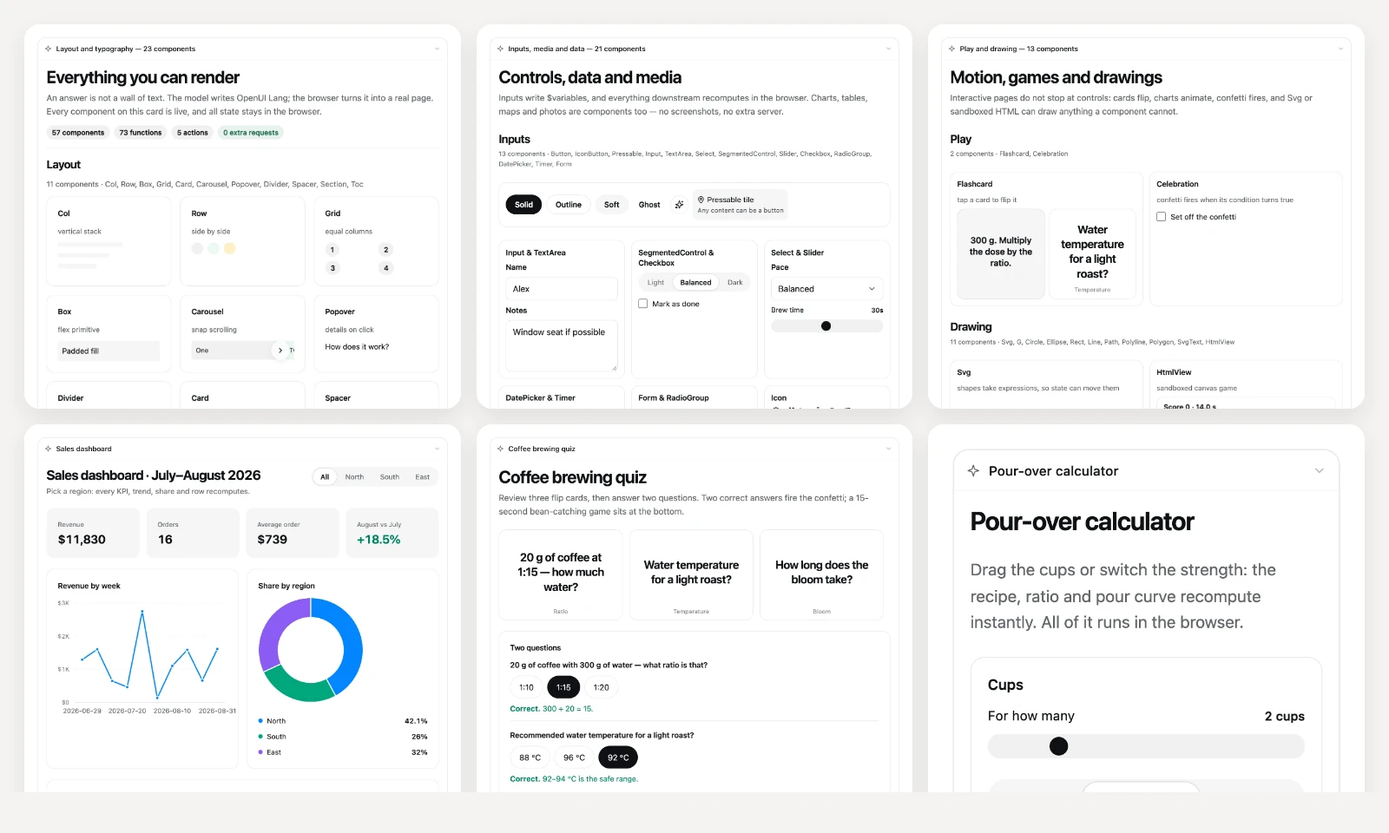
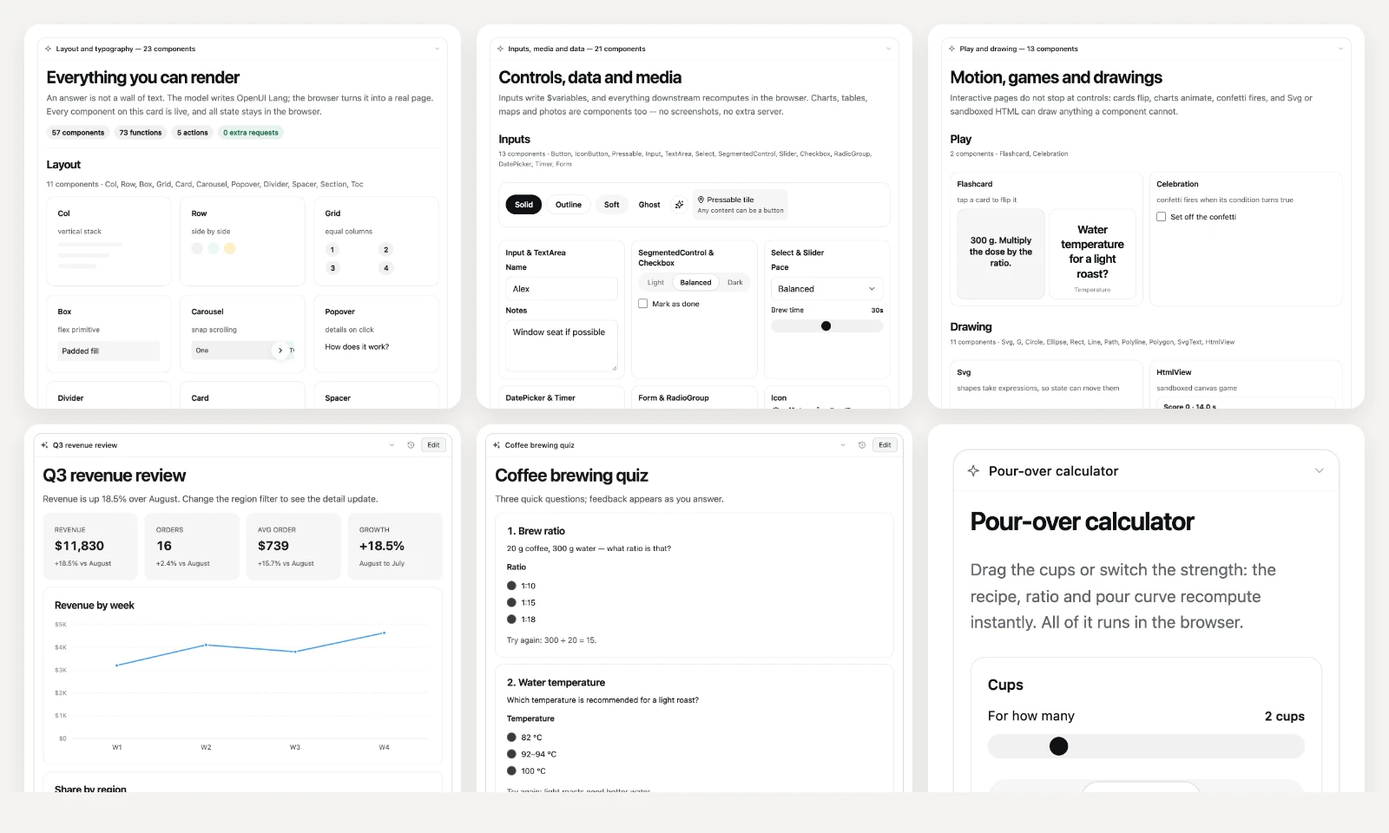
docs: use the current dashboard and quiz cards in the components bento
Swap the components Bento's two example cells from the 0.1.0 example captures to the current dashboard-en / quiz-en fixture cards (card header with Edit, current styling), rebuild the composite, and refresh the derived pack sizes in the docs/verification/reference records (65 files, 6,118,669 / 13,140,084). The README and the marketplace screenshots.json reference the same composite filename, so both pick up the new image.

diff --git a/docs/architecture.en.md b/docs/architecture.en.md
@@ -467,7 +467,7 @@ The skill files also ship with the package as an ordinary directory (`skills/`),
 - **Deep pages**: `MAX_CST_DEPTH` moved from 4 to **10** (the root `Col` is depth 0; the real dashboard page is depth 5–6 with 83 CST nodes) and the client nested map plus the Host structure route share that constant, so root-level delete/duplicate/move on big pages now preview and apply. The nested editing UI still offers children up to display depth 4. When `nestedBlocksForProgram` cannot map the page, `resolvePendingStructureOperations` falls back to a Host-shaped root-level block table (same node ids/digests), so root operations still resolve. A page beyond the supported depth reports a `depth` conflict (a nested move on it reports `nestedTarget`); a shallow page over the 200-node budget reports its own `nodeLimit` conflict instead of pretending it is too deep. Neither case shows the misleading "no longer in this revision".
 - **Known limits**: auto-send needs a plain composer — busy/sending states fall back to the manual notice, and a `submitted` notice is written only after the send path really consumed the draft (an unverifiable send downgrades to manual instead of faking success); after `submit()` the existing `reconcileArtifactSubmissions` confirms the draft when the Turn closes (Host conflicts still use the existing banner); a normal Send is refused with `pending_apply` while the structure queue is unapplied (no `markSubmitted`, no draft loss); Apply preserves the draft's attached state (a detached draft gets no re-inserted chip and is never auto-sent) and checks the attached batch count before inserting a chip; a nested-mode Apply rebuilds the nested block table and complete nested order groups from the resulting program and refuses to create a draft whose remapped selection/addition cannot resolve there, while nested selection/order is persisted so a reload stays serializable; the preview and the real Apply share one side-effect-free model-request check, so style/block mixes, empty instructions, temporary-style order-only, recorded-but-unremappable revisions and invalid requests appear as zero-op preview conflicts and disable confirm, and cancelling a loading preview drops its late answer; panel-local unsaved work (global text, batch draft) and unsaved popover text join the unified dirty guard (discard needs an explicit confirm, revision deletion is locked, Apply asks to save first); a page over the CST node budget reports `nodeLimit` while a too-deep page reports `depth`/`nestedTarget`; post-Apply notices render in the chat-level draft dock, so single-card and stage scenarios can see them; one Apply accepts at most 20 queued operations (the 21st is refused with visible copy, never truncated and never dropping the rest of the draft); a parent cannot mix structure operation kinds; remapping relies on display identity, so duplicate+move mixes or an unalignable result block Apply (a recorded props revision whose draft cannot move keeps the draft/chip on the old revision with a dismissible `rebaseFailed` notice instead of silently leaving a stale canvas); structure operations support CST depth ≤10 and ≤200 nodes, the Host structure route rejects deeper pages entirely (including root-level operations) and the client pre-blocks them with a `depth` conflict; moving a block to the page root still follows the existing Host move validation (the target must be a writable container); the edit panel (Chinese) and the composer chip/dock (English) can disagree under a mixed locale, which is the pre-existing chip locale seat behaviour, not introduced here; the E2E structure scenarios that use the Node bridge (25/25b/25d/61/63/65/67; 25c only cancels a batch and sends no preview/apply) call the shared `applyStructureBatch`, bypassing the Host route's auth, base registry and idempotency ledger, which host unit tests cover instead; the real asynchronous bridge leaves a few timing waits, so the suite still has a non-zero flake probability; Phase B changed the batch-cancel chip negative assertion to a wait instead of a single-frame sample and it now passes three consecutive runs, while the remaining timing waits stay a known limit.
 - **Tests**: 15 pure `remap.ts` unit tests (copy exclusion, derived container titles, nestedOrder anchor insertion, unreliable duplicate+move) plus store tests for the queue/preview/apply/rebase, chip rekey ordering, the 20-operation refusal and the props rebase-failure contract (mocked structurally different props result: local revision recorded, old draft/chip kept, dismissible `applyNotice='rebaseFailed'`), the restored batch-order unit tests (`test/client/artifact-edit-batch-order.test.mjs`, 6 tests: up/down/top/bottom, only `targetOrder`/`orderChanged` change while saved requests stay, per-parent nested moves, no-op for empty/boundary selections) and Host route depth tests (`test/host/artifact-structure.test.mjs`: depth-6/83-node root duplicate and delete succeed through the real route and record revisions; depth 11 is rejected with no revision or ledger write); the `artifact-edit` E2E scenarios 25/25b/25c/25d/27/31/33/36 migrated to **queue → save → total preview → Apply**, with new scenarios 57 (structure + 2 requests + global auto-submit: `__submits` +1, new `baseRevisionId` in the serialized envelope, block ids b3/b5→b2/b4 remapped, global preserved, exactly one dry-run + apply), 58 (user prose → no auto-send, chip kept, manual-send notice that can be dismissed), 59 (pending operations restored after reload), 60 (three conflict classes block Apply with no Host request), 61 (depth-6 / 83-node dashboard: root batch duplicate previews without conflicts and applies as one revision), 62 (a page past the supported depth reports `depth`/`nestedTarget` conflicts with zero Host requests), 63 (two identical untitled Text blocks: after duplicating the first, the saved request on the second stays on the original b3), and 64 (the 21st queued operation is refused with visible copy while the saved request/global instruction survive). The suite grows 790 → **909 checks** (Phase A) → **920 checks** (Phase B). Phase A review fixes add unit coverage for the nested Apply rebuild (nested table, complete order groups, serialization, reload), nested selection/`b1.2`-shaped persistence, zero-op preview conflicts (styleMixed/stale/instruction/temporaryOrder), queued-structure send blocking, detached rebase, multi-chip `composerHasPlainText`, real-send confirmation, the unified dirty guard, `nodeLimit` classification and the cancelled-preview race, plus E2E scenarios 65 (nested Apply keeps the nested draft and serializes it), 66 (a normal Send is refused while the queue is pending and works after clearing), 67 (a detached draft gets no re-inserted chip / no auto-send after Apply, then serializes after an explicit attach) and 68 (a zero-op preview disables confirm on a stale conflict and unblocks after branching). Phase B review fixes add: the deletion-fallback selection (deleting the displayed revision selects the rollback target named by the confirmation instead of silently advancing to the latest) and `stageProgramFor` synthesizing `fallbackFrom` only while the stage actually displays the fallback target (selecting another revision restores editing); +3 `artifact-version.test.mjs` cases, +2 `version-items.test.mjs` cases (a local props/style kind keeps its label over the generic Host structure label), +1 `artifact-edit-remap.test.mjs` case (the client queue cap reuses the Host `MAX_ARTIFACT_STRUCTURE_OPERATIONS`; 20 accepted, 21 refused) and 9 `doc-facts-guard.test.mjs` cases (contextual number matching plus Host/Client-swap and stale-wording failure cases); E2E gains scenario 69 (display an old revision → delete → the stage lands on the rollback target read-only → selecting another revision restores the edit entry) and the image-export error-copy assertions (a notice-only Turn with no capturable stage shows the concrete cause instead of the generic retry copy and downloads nothing); `artifact-edit` is **920 checks**, image export **76** assertions, and `test/browser/README.md` is synced. E2E scenarios 25/25b/25d/61/63/65/67 use the real `applyStructureBatch` engine through a Node bridge for their mocked preview/apply programs, so those match the Host; scenarios 57/58 and the other structure cases still use handwritten mocks that only verify client-side draft/rebase/send behaviour, while Host engine and route consistency are covered by the host unit tests and the bridge scenarios.
-- **Current working-tree verification** (2026-11-11, uncommitted; the Auto format decision: page-or-text, Card/Article/free layout, and the plain-text fallback for ordinary styles): Node **804/804** (Host **309**, Client **461**, packaging **34**); **9/9** browser suites, `artifact-edit` **920 checks**, `nested-edit-renderer` 75, 76 image-export assertions; build host **845 kB**, client **4.19 MB** (js 3.95 / css 243.1 kB); pack **65** files **6,128,209** / **13,149,510** bytes; `npm run check:docs-facts` and `git diff --check` pass.
+- **Current working-tree verification** (2026-11-11, uncommitted; the Auto format decision: page-or-text, Card/Article/free layout, and the plain-text fallback for ordinary styles): Node **804/804** (Host **309**, Client **461**, packaging **34**); **9/9** browser suites, `artifact-edit` **920 checks**, `nested-edit-renderer` 75, 76 image-export assertions; build host **845 kB**, client **4.19 MB** (js 3.95 / css 243.1 kB); pack **65** files **6,118,669** / **13,140,084** bytes; `npm run check:docs-facts` and `git diff --check` pass.
 
 - **Known gap**: `additions` (model-added blocks) are not written to the persisted draft record, so they are lost after a reload (same-session Apply remapping and serialization work); this is a pre-existing gap, not introduced by the edit pipeline.
 

diff --git a/CHANGELOG.md b/CHANGELOG.md
@@ -9,7 +9,7 @@ been published yet.
 
 ### Added
 
-- **Experimental document answer mode (`documentMode`).** A new Plugin-detail-page **Experimental** switch renders an ordinary rendered answer as the turn's message text instead of a card: the prompt tells the model to write the whole answer as one free-layout document (ordinary prose/table/code blocks plus interactive blocks in reading order), pass `style: "free"` with no `styleId`/`temporaryStyle`, and write no Markdown reply; the Host enforces the free layout, ignores the session template for these renders, records `document: true` in the success value and result meta, and the client renders the recorded result as a chrome-less `section.dsh-iui-document` with no header, collapse control, editing entry or revision history. On-demand results, saved templates and Artifact edit requests keep their card contract. The mode is an explicit stopgap for in-message UI: the content still lives in the turn-tail result, so message copy/search/transcript Markdown export omit it, Web is the only renderer, and the removal path (delete the setting, prompt prefix/note, Host `documentRender` branch and client `DocumentCard` once DSH supports in-message UI natively) is documented in the architecture/limitations docs. **Also fixed:** ordinary `render_ui` results now record their resolved `style`/`styleSource` in `presentationMeta`, so a settled Auto free-layout page replays without a style identity (previously it was dropped on replay). Docs updated across README (both languages), architecture, usage, limitations, the development guide, the Agent Skill, the integration reference and troubleshooting; tests cover the prompt contract, Host enforcement, ordinary-result meta, client replay/extraction, the settings switch and a chrome-less document answer in the style-theme browser suite. Final measured gate: Node **804/804** (Host **309**, Client **461**, packaging **34**), browser 9/9, `artifact-edit` **920 checks**, nested renderer **75**, image export **76** assertions, pack **65 files**, **6,128,209** bytes packed, **13,149,510** bytes unpacked; build host **845 kB**, client **4.19 MB** (js 3.95 / CSS 243.1).
+- **Experimental document answer mode (`documentMode`).** A new Plugin-detail-page **Experimental** switch renders an ordinary rendered answer as the turn's message text instead of a card: the prompt tells the model to write the whole answer as one free-layout document (ordinary prose/table/code blocks plus interactive blocks in reading order), pass `style: "free"` with no `styleId`/`temporaryStyle`, and write no Markdown reply; the Host enforces the free layout, ignores the session template for these renders, records `document: true` in the success value and result meta, and the client renders the recorded result as a chrome-less `section.dsh-iui-document` with no header, collapse control, editing entry or revision history. On-demand results, saved templates and Artifact edit requests keep their card contract. The mode is an explicit stopgap for in-message UI: the content still lives in the turn-tail result, so message copy/search/transcript Markdown export omit it, Web is the only renderer, and the removal path (delete the setting, prompt prefix/note, Host `documentRender` branch and client `DocumentCard` once DSH supports in-message UI natively) is documented in the architecture/limitations docs. **Also fixed:** ordinary `render_ui` results now record their resolved `style`/`styleSource` in `presentationMeta`, so a settled Auto free-layout page replays without a style identity (previously it was dropped on replay). Docs updated across README (both languages), architecture, usage, limitations, the development guide, the Agent Skill, the integration reference and troubleshooting; tests cover the prompt contract, Host enforcement, ordinary-result meta, client replay/extraction, the settings switch and a chrome-less document answer in the style-theme browser suite. Final measured gate: Node **804/804** (Host **309**, Client **461**, packaging **34**), browser 9/9, `artifact-edit` **920 checks**, nested renderer **75**, image export **76** assertions, pack **65 files**, **6,118,669** bytes packed, **13,140,084** bytes unpacked; build host **845 kB**, client **4.19 MB** (js 3.95 / CSS 243.1).
 
 - **Independent review fixes for the Auto format decision.** Two read-only review sub-agents audited the uncommitted change along standards and spec axes; no BLOCKER was found. This round fixes their findings. **Docs:** README's stale "structured answers use a card by default" line and `docs/development.md`'s old policy description now match the shipped rule; the current gate lines in README/architecture say "working tree (uncommitted)" instead of claiming a merge; the architecture/limitations free-layout and explicit-request wording matches the model-facing contract. **Prompt:** the static prompt's session-note sentence now covers the on-demand note as well; an explicit page/dashboard/card/UI request is a direct instruction; `ARTIFACT_EDIT_NOTE` states that a pending edit request overrides the ordinary page-vs-text decision; the per-style notes no longer repeat the text-fallback sentence (the runtime prefix owns that decision). **Skill:** the free-layout advisory covers an Auto-chosen free layout, and the troubleshooting reference documents the Auto-free path; the Free-form layout switch copy now describes whether layout guidance is advisory (Auto free is not gated by it). **Client:** the free replay guard is narrowed — a free result with no styleId/temporaryStyle renders only for a live call or when the recorded result says `styleSource: "builtin"`; a template recording with a missing/malformed identity is dropped again. Tests pin the ordinary/on-demand prefixes, the edit-request override and the narrowed replay contract. Final measured gate: Node **800/800** (Host **306**, Client **460**, packaging **34**), browser 9/9, `artifact-edit` **920 checks**, nested renderer **75**, image export **76** assertions, pack **65 files**, **6,080,849** bytes packed, **13,090,697** bytes unpacked; build host 842 kB, client 4.19 MB (js 3.95 / CSS 242.8).
 

diff --git a/.agents/skills/sync-iui-docs/references/verification.md b/.agents/skills/sync-iui-docs/references/verification.md
@@ -6,8 +6,8 @@ Run from the repo root. Current expected values are dated 2026-11-11; derive the
 
 | Command | Expected (2026-11-11) | What it proves |
 | --- | --- | --- |
-| `npm run check` | typecheck `tsc --noEmit` (pass; `src/client` excluded because its DSH platform types are not local dependencies); build: `host lib/index.js 844.7 kB`, `client lib/client.js 4.19 MB (js 3.95 MB, css 243.1 kB)`, `lib/standalone.js 3.37 MB + lib/standalone.css 523.2 kB`; tests: 804 total = Host 309 + Client 461 + packaging 34; `check: 42/42` gallery programs plus `49/49` runtime component descriptions; `render-check: 42/42` plus free composition in light/dark; `contrast-check: colour contract OK`; `i18n-check: localized chrome OK (4 programs, zh + en fallback)`; `typography-check: 22/22`; `media-row-check: 17/17`; `pressable-select-check: 9/9`; `css-contract-check: 50/50`; `prop-contract-check: 63/63`; `nested-css-contract: 28/28 direct + 5/5 scoped`; `capture-token-contract: ok (22 alias tokens)`; `check:docs-facts` pack 6,128,209 / 13,149,510 | Build artifacts, behavior, docs/consistency guards, renderer, i18n, typography and contract claims |
-| `npm run pack:check` | 65 files; tarball 6,128,209 bytes (≈6.13 MB), unpacked 13,149,510 bytes (≈13.15 MB) (sizes vary with the working tree — derive from the current command output); includes `README.md`, `README.en.md`, `assets/`, `skills/`, `locale/`, `licenses/` (docs and `CHANGELOG.md` excluded) | Packaging claims, shipped-file lists, screenshot assets |
+| `npm run check` | typecheck `tsc --noEmit` (pass; `src/client` excluded because its DSH platform types are not local dependencies); build: `host lib/index.js 844.7 kB`, `client lib/client.js 4.19 MB (js 3.95 MB, css 243.1 kB)`, `lib/standalone.js 3.37 MB + lib/standalone.css 523.2 kB`; tests: 804 total = Host 309 + Client 461 + packaging 34; `check: 42/42` gallery programs plus `49/49` runtime component descriptions; `render-check: 42/42` plus free composition in light/dark; `contrast-check: colour contract OK`; `i18n-check: localized chrome OK (4 programs, zh + en fallback)`; `typography-check: 22/22`; `media-row-check: 17/17`; `pressable-select-check: 9/9`; `css-contract-check: 50/50`; `prop-contract-check: 63/63`; `nested-css-contract: 28/28 direct + 5/5 scoped`; `capture-token-contract: ok (22 alias tokens)`; `check:docs-facts` pack 6,118,669 / 13,140,084 | Build artifacts, behavior, docs/consistency guards, renderer, i18n, typography and contract claims |
+| `npm run pack:check` | 65 files; tarball 6,118,669 bytes (≈6.13 MB), unpacked 13,140,084 bytes (≈13.15 MB) (sizes vary with the working tree — derive from the current command output); includes `README.md`, `README.en.md`, `assets/`, `skills/`, `locale/`, `licenses/` (docs and `CHANGELOG.md` excluded) | Packaging claims, shipped-file lists, screenshot assets |
 | `node --test test/packaging/*.test.mjs` | 34 pass (doc-facts-guard 11 + guardrails 8 + manifest 9 + references 6) | Package, README pair and changelog, screenshots, locale meta, catalog counts, prompt/Skill guardrails, decision policy, the `render_ui` contract rows and the shipped file count |
 | `node --test test/packaging/guardrails.test.mjs` | 8 pass | The prompt and Agent Skill keep the extension checkout read-only while answering, and the enabled-session decision policy stays single-sourced |
 | `node --test test/packaging/references.test.mjs` | 6 pass | `references/components.md` names/counts and `SKILL.md` hard-rule counts against `vendor/spec.json`; `integration.md`'s tool-contract rows against the host schemas and its shipped file count against `package.json` `files` |

diff --git a/docs/verification.en.md b/docs/verification.en.md
@@ -1022,5 +1022,5 @@ Local `main` merged `artifact-version-switcher` (fast-forward) and `artifact-bat
 - **Behavior**: the Plugin detail page gains an **Experimental** switch, **Answer as a document (experimental)** (Host volatile `documentMode`, default off). When on, an ordinary answer (not an on-demand result, Artifact edit or saved template) uses the document contract: the whole answer is one `render_ui` program with `style: "free"` and no Markdown reply; the Host enforces free and ignores the session template, records `document: true` plus `styleSource: "builtin"` in the success value and `presentationMeta`, and the client renders that result as a chrome-less `section.dsh-iui-document` with no header, collapse control, frame, card actions, editing entry or revision history. On-demand results, saved templates and edit requests keep their cards; the switch only affects future answers, and recorded results replay with their recorded presentation.
 - **Replay fix**: ordinary `render_ui` results now always record `style`/`styleSource` in `presentationMeta`, which fixes Auto free-layout results being dropped on settlement/replay when they carried no style identity; the `document` flag rides the same meta channel and is read by the client `programFromArgs`.
 - **Tests**: Host +3 (document prompt contract, Host enforcing free and rejecting card/styleId, ordinary-result meta); Client +1 (document meta replay); the settings SSR test now covers the experimental switch (four switches); the `style-theme` browser suite gains a recorded document answer (no header, program mounted, ordinary cards keep their header).
-- **Measured gate**: `npm run check` PASS; Node **804/804** = Host **309** + Client **461** + packaging **34**; `npm run test:browser` **9/9** suites, `artifact-edit` **920 checks**, `nested-edit-renderer` **75**, image export **76** assertions; `npm run pack:check` **65** files, **6,128,209** bytes packed, **13,149,510** bytes unpacked; build host **845 kB**, client **4.19 MB** (js 3.95 / CSS 243.1 kB); `npm run check:docs-facts` and `git diff --check` pass.
+- **Measured gate**: `npm run check` PASS; Node **804/804** = Host **309** + Client **461** + packaging **34**; `npm run test:browser` **9/9** suites, `artifact-edit` **920 checks**, `nested-edit-renderer` **75**, image export **76** assertions; `npm run pack:check` **65** files, **6,118,669** bytes packed, **13,140,084** bytes unpacked; build host **845 kB**, client **4.19 MB** (js 3.95 / CSS 243.1 kB); `npm run check:docs-facts` and `git diff --check` pass.
 - **Evidence boundary**: no real model was called, so the model-side document behavior (strictly writing no prose, reliably keeping the whole answer in one program) is not verified in a real session; the browser evidence is a component-level harness (real turn-tail component replaying recorded arguments), not a complete DSH Web session. Document answers have no card editing entry or revision history, message copy/search/transcript Markdown export omit their body, and only the Web renderer shows them. A real-GUI manual pass is still pending.

diff --git a/docs/verification.md b/docs/verification.md
@@ -1002,5 +1002,5 @@ Composer「显示样式」面板接入与设置页相同的模板交换入口：
 - **行为**：插件详情页「实验性功能」新增「回答即文档（实验）」开关（Host volatile 字段 `documentMode`，默认关闭）。开启后，普通回答（非按需结果、非 Artifact 编辑、非保存模板）的提示词改用文档契约：整篇内容写进一个 `render_ui` program、`style: "free"`、不写 Markdown 正文；Host 强制 free 并忽略会话模板，成功值与 `presentationMeta` 记录 `document: true` 与 `styleSource: "builtin"`；客户端把该结果渲染为无卡片外壳的 `section.dsh-iui-document`（无标题栏、折叠、边框与卡片操作，也没有编辑入口/修订历史）。按需结果、保存模板与编辑请求仍按卡片渲染；开关只影响之后的回答，已记录的结果按记录回放。
 - **回放修复**：普通 `render_ui` 结果现在总在 `presentationMeta` 记录 `style`/`styleSource`，修复 Auto 自由布局结果在落定/重放时因缺少样式身份被丢弃的问题；`document` 走同一 meta 通道，由客户端 `programFromArgs` 读取。
 - **测试**：Host +3（文档提示词契约、文档模式强制 free 且拒绝 card/styleId、普通结果 meta）；Client +1（document meta 回放），设置页 SSR 断言新增实验开关（共 4 个开关）；`style-theme` 浏览器套件新增一条记录型文档答案（无 header、程序仍挂载、普通卡片保持 header）。
-- **实测门禁**：`npm run check` PASS；Node **804/804** = Host **309** + Client **461** + packaging **34**；`npm run test:browser` **9/9** 套件，`artifact-edit` **920 checks**、`nested-edit-renderer` **75**、图片导出 **76** 条断言；`npm run pack:check` **65** 文件，压缩 **6,128,209** 字节，解包 **13,149,510** 字节；构建 host **845 kB**、client **4.19 MB**（js 3.95 / CSS 243.1 kB）；`npm run check:docs-facts` 与 `git diff --check` 通过。
+- **实测门禁**：`npm run check` PASS；Node **804/804** = Host **309** + Client **461** + packaging **34**；`npm run test:browser` **9/9** 套件，`artifact-edit` **920 checks**、`nested-edit-renderer` **75**、图片导出 **76** 条断言；`npm run pack:check` **65** 文件，压缩 **6,118,669** 字节，解包 **13,140,084** 字节；构建 host **845 kB**、client **4.19 MB**（js 3.95 / CSS 243.1 kB）；`npm run check:docs-facts` 与 `git diff --check` 通过。
 - **证据边界**：未调用真实模型，因此文档模式的模型侧行为（是否严格不写正文、是否稳定用一个 program 承载整篇）未在真实会话验证；浏览器证据是组件级 harness（真实 turn-tail 组件 + 记录参数回放），不是完整 DSH Web 会话；文档模式没有卡片编辑入口与修订历史，复制、搜索、会话导出 Markdown 不包含页面正文，且只有 Web 渲染器显示。真实 GUI 手工点验待真机确认。

diff --git a/.agents/skills/sync-iui-docs/SKILL.md b/.agents/skills/sync-iui-docs/SKILL.md
@@ -69,7 +69,7 @@ Claim groups for this extension:
 - **Card and renderer**: turn-tail placement, process-row title, default card title, fallbacks, map/code/timer chrome, chart aria, and the experimental document answer rendered as a chrome-less `section.dsh-iui-document`.
 - **UI copy**: zh/en labels and menu text from `src/shared/locales.ts`; zh docs quote zh labels, English docs quote English labels.
 - **Vocabulary and counts**: 57 components, 73 functions (14 core + 59 library), 5 action steps; component signatures; prompt size (~9.5K tokens, approximate).
-- **Verification and packaging** (recorded in `docs/verification*.md`): test counts (Host 309 / Client 461 / packaging 34, total 804), renderer 42/42 parse + 49/49 runtime descriptions + 42/42 render, typography 22/22, i18n 4 programs, pack 65 files (6,128,209 bytes tarball / 13,149,510 bytes unpacked), 34 shipped screenshot assets guarded by `test/packaging/manifest.test.mjs` (language-matched captures are used by their own README, shared fixtures by both).
+- **Verification and packaging** (recorded in `docs/verification*.md`): test counts (Host 309 / Client 461 / packaging 34, total 804), renderer 42/42 parse + 49/49 runtime descriptions + 42/42 render, typography 22/22, i18n 4 programs, pack 65 files (6,118,669 bytes tarball / 13,140,084 bytes unpacked), 34 shipped screenshot assets guarded by `test/packaging/manifest.test.mjs` (language-matched captures are used by their own README, shared fixtures by both).
 - **Detailed docs**: `docs/architecture*.md` expands the component tree, full switch semantics, the decision policy and the experimental document mode; `docs/development*.md` expands install/uninstall, development commands, restart tips, the Config fields (including `documentMode`), the release layout and the tag-driven Trusted Publishing release flow. The READMEs link both with absolute GitHub URLs because `docs/` is not shipped in npm.
 - **Repository and contribution**: the README clone URL is the HTTPS equivalent of `git config remote.origin.url`; GitHub Issues is the contribution channel; `npm run check` is the local gate (there is no PR CI); releases are published by the tag-triggered GitHub Actions Trusted Publishing workflow (`.github/workflows/publish.yml`, OIDC + provenance); docs changes follow `.agents/skills/sync-iui-docs/SKILL.md`.
 - **Release status**: published to GitHub and npm as `@zephinel/dsh-intelligent-ui@0.5.0`; the README current-status line, the package name/homepage/repository metadata in `package.json`, and the `latest` dist-tag.
